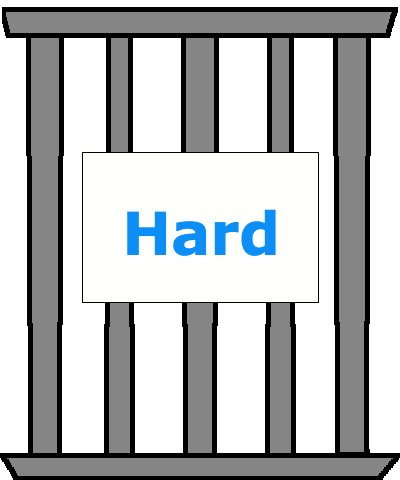
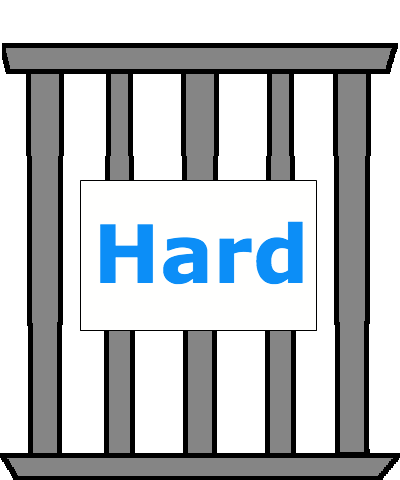
added the cages

diff --git a/Projectfiles/LevelSelectLayer.mm b/Projectfiles/LevelSelectLayer.mm
@@ -39,14 +39,14 @@ CGPoint endLocation;
         int gap = 0;
         int tagCounter = 0;
         movableSprites = [[NSMutableArray alloc] init];
-        NSArray *images = [NSArray arrayWithObjects:@"easyCage.png", @"mediumCage.png", nil];
+        NSArray *images = [NSArray arrayWithObjects:@"easyCageLabelled.png", @"hardCageLabelled.png", nil];
         for(int i = 0; i < images.count; ++i) {
             
             NSString *image = [images objectAtIndex:i];
             CCSprite *sprite = [CCSprite spriteWithFile:image];
             sprite.tag = tagCounter;
             if (IsIphone5){
-            sprite.scaleY = 0.7;
+            //sprite.scaleY = 0.7;
             float offsetFraction = ((float)(i+1))/(images.count+1);
             sprite.position = ccp(170+gap, 170);
             [self addChild:sprite];
@@ -54,7 +54,7 @@ CGPoint endLocation;
             }
             else{
                 sprite.scaleX = 0.9;
-                sprite.scaleY = 0.7;
+                //sprite.scaleY = 0.7;
             sprite.position = ccp(140+gap, 170);
                 [self addChild:sprite];
                 gap +=210;
